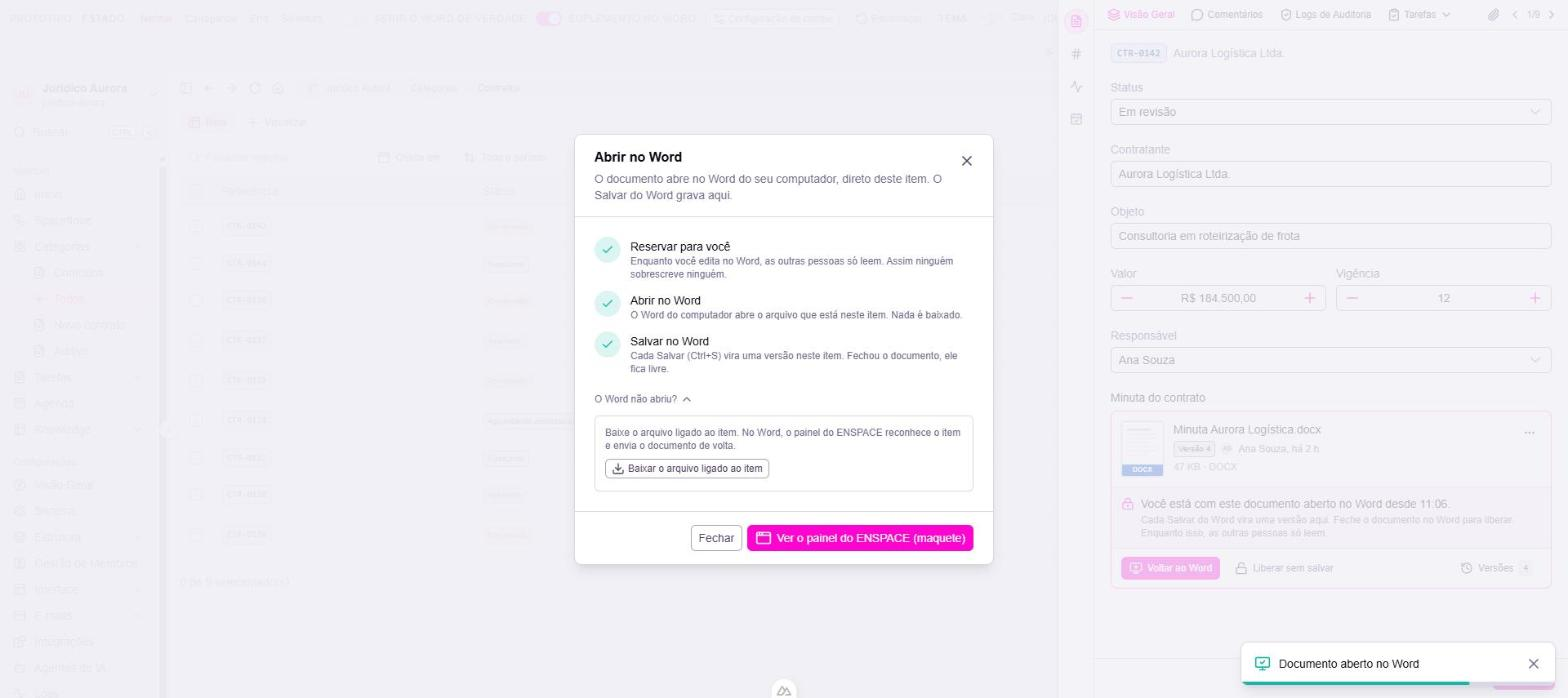
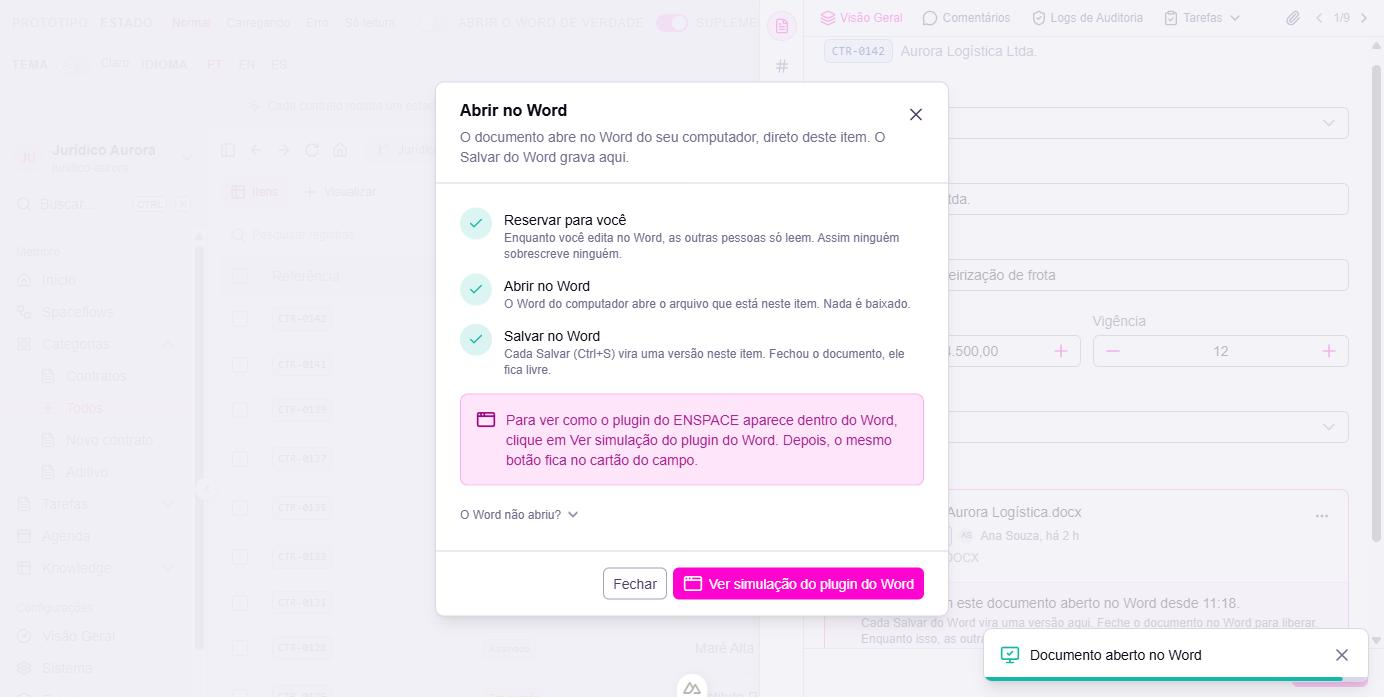
[PROTO] editor-de-documentos — rodada 2 — "simulação do plugin do Word" no lugar de "maquete", com explicação no fluxo

diff --git a/app/pages/editor-de-documentos/textos.ts b/app/pages/editor-de-documentos/textos.ts
@@ -114,6 +114,7 @@ export interface Textos {
     renomear: string
     remover: string
     pdfSoLeitura: string
+    simulacaoBaixar: string
 
     abertoPorVoceNoWord: (desde: string) => string
     abertoPorVoceNoWordDetalhe: string
@@ -203,6 +204,9 @@ export interface Textos {
     abrindo: string
     abertoToast: string
     abrirJanela: string
+    abrirJanelaCurto: string
+    explicaSimulacao: string
+    simulacaoInstalar: string
     fechar: string
     naoAbriu: string
     naoAbriuDetalhe: string
@@ -441,6 +445,7 @@ const pt: Textos = {
     renomear: 'Renomear',
     remover: 'Remover documento',
     pdfSoLeitura: 'PDF não se edita. Para mudar, substitua o arquivo.',
+    simulacaoBaixar: 'Simulação: nada é baixado.',
 
     abertoPorVoceNoWord: desde => `Você está com este documento aberto no Word desde ${desde}.`,
     abertoPorVoceNoWordDetalhe: 'Cada Salvar do Word vira uma versão aqui. Feche o documento no Word para liberar. Enquanto isso, as outras pessoas só leem.',
@@ -504,7 +509,7 @@ const pt: Textos = {
     concluir: 'Concluir',
     concluindo: 'Salvando',
     versaoSalva: n => `Versão ${n} salva`,
-    areaDoOnlyoffice: 'Área do ONLYOFFICE (maquete): clique no texto e digite para ver o salvamento.',
+    areaDoOnlyoffice: 'Simulação do ONLYOFFICE: clique no texto e digite para ver o salvamento.',
     barra: ['Arquivo', 'Página Inicial', 'Inserir', 'Layout', 'Referências', 'Colaboração'],
     escHint: 'Esc fecha só o que está por cima. O editor fecha pelo Concluir.',
   },
@@ -557,7 +562,10 @@ const pt: Textos = {
     reservado: 'Reservado para você',
     abrindo: 'Abrindo no Word',
     abertoToast: 'Documento aberto no Word',
-    abrirJanela: 'Ver o painel do ENSPACE (maquete)',
+    abrirJanela: 'Ver simulação do plugin do Word',
+    abrirJanelaCurto: 'Simulação do plugin',
+    explicaSimulacao: 'Para ver como o plugin do ENSPACE aparece dentro do Word, clique em Ver simulação do plugin do Word. Depois, o mesmo botão fica no cartão do campo.',
+    simulacaoInstalar: 'Simulação: aqui abriria a página de instalação do plugin.',
     fechar: 'Fechar',
     naoAbriu: 'O Word não abriu?',
     naoAbriuDetalhe: 'Baixe o arquivo ligado ao item. No Word, o painel do ENSPACE reconhece o item e envia o documento de volta.',
@@ -573,7 +581,7 @@ const pt: Textos = {
   },
 
   janela: {
-    aviso: 'Maquete do Word com o painel do ENSPACE. A janela do Word não é proposta; o painel e o salvamento no item são.',
+    aviso: 'Simulação do plugin do Word: é assim que o painel do ENSPACE aparece dentro do Word. A janela cinza só representa o Word; o painel e o salvamento no item são a proposta.',
     tituloDoApp: 'Word',
     salvoNaBarra: hora => `Salvo no ENSPACE às ${hora}`,
     naoSalvoNaBarra: 'Mudanças não salvas',
@@ -649,7 +657,7 @@ const pt: Textos = {
     configuracao: 'Configuração do campo',
     wordDeVerdade: 'Abrir o Word de verdade',
     reiniciar: 'Recomeçar',
-    dica: 'Cada contrato da lista mostra um estado do campo.',
+    dica: 'Cada contrato mostra um estado do campo. Para ver o plugin do Word, abra um contrato no Word e clique em Ver simulação do plugin do Word.',
     oQueMuda: 'Mostrar o que muda',
   },
 
@@ -801,6 +809,7 @@ const en: Textos = {
     renomear: 'Rename',
     remover: 'Remove document',
     pdfSoLeitura: 'PDFs can\'t be edited. To change it, replace the file.',
+    simulacaoBaixar: 'Simulation: nothing is downloaded.',
 
     abertoPorVoceNoWord: desde => `You have this document open in Word since ${desde}.`,
     abertoPorVoceNoWordDetalhe: 'Every Save in Word becomes a version here. Close the document in Word to release it. Meanwhile, other people can only read.',
@@ -864,7 +873,7 @@ const en: Textos = {
     concluir: 'Done',
     concluindo: 'Saving',
     versaoSalva: n => `Version ${n} saved`,
-    areaDoOnlyoffice: 'ONLYOFFICE area (mockup): click the text and type to see saving.',
+    areaDoOnlyoffice: 'ONLYOFFICE simulation: click the text and type to see saving.',
     barra: ['File', 'Home', 'Insert', 'Layout', 'References', 'Collaboration'],
     escHint: 'Esc only closes what is on top. The editor closes with Done.',
   },
@@ -917,7 +926,10 @@ const en: Textos = {
     reservado: 'Reserved for you',
     abrindo: 'Opening in Word',
     abertoToast: 'Document opened in Word',
-    abrirJanela: 'See the ENSPACE pane (mockup)',
+    abrirJanela: 'See Word plugin simulation',
+    abrirJanelaCurto: 'Plugin simulation',
+    explicaSimulacao: 'To see how the ENSPACE plugin looks inside Word, click See Word plugin simulation. Afterwards, the same button stays on the field card.',
+    simulacaoInstalar: 'Simulation: this would open the plugin installation page.',
     fechar: 'Close',
     naoAbriu: 'Word didn\'t open?',
     naoAbriuDetalhe: 'Download the file linked to the item. In Word, the ENSPACE pane recognizes the item and sends the document back.',
@@ -933,7 +945,7 @@ const en: Textos = {
   },
 
   janela: {
-    aviso: 'Mockup of Word with the ENSPACE pane. The Word window is not the proposal; the pane and saving to the item are.',
+    aviso: 'Word plugin simulation: this is how the ENSPACE pane looks inside Word. The gray window only stands for Word; the pane and saving to the item are the proposal.',
     tituloDoApp: 'Word',
     salvoNaBarra: hora => `Saved to ENSPACE at ${hora}`,
     naoSalvoNaBarra: 'Unsaved changes',
@@ -1009,7 +1021,7 @@ const en: Textos = {
     configuracao: 'Field settings',
     wordDeVerdade: 'Open the real Word',
     reiniciar: 'Start over',
-    dica: 'Each contract in the list shows a field state.',
+    dica: 'Each contract shows a field state. To see the Word plugin, open a contract in Word and click See Word plugin simulation.',
     oQueMuda: 'Show what changes',
   },
 
@@ -1161,6 +1173,7 @@ const es: Textos = {
     renomear: 'Renombrar',
     remover: 'Quitar documento',
     pdfSoLeitura: 'Un PDF no se edita. Para cambiarlo, reemplaza el archivo.',
+    simulacaoBaixar: 'Simulación: no se descarga nada.',
 
     abertoPorVoceNoWord: desde => `Tienes este documento abierto en Word desde las ${desde}.`,
     abertoPorVoceNoWordDetalhe: 'Cada Guardar en Word se convierte en una versión aquí. Cierra el documento en Word para liberarlo. Mientras tanto, las demás personas solo leen.',
@@ -1224,7 +1237,7 @@ const es: Textos = {
     concluir: 'Listo',
     concluindo: 'Guardando',
     versaoSalva: n => `Versión ${n} guardada`,
-    areaDoOnlyoffice: 'Área de ONLYOFFICE (maqueta): haz clic en el texto y escribe para ver el guardado.',
+    areaDoOnlyoffice: 'Simulación de ONLYOFFICE: haz clic en el texto y escribe para ver el guardado.',
     barra: ['Archivo', 'Inicio', 'Insertar', 'Diseño', 'Referencias', 'Colaboración'],
     escHint: 'Esc cierra solo lo que está encima. El editor se cierra con Listo.',
   },
@@ -1277,7 +1290,10 @@ const es: Textos = {
     reservado: 'Reservado para ti',
     abrindo: 'Abriendo en Word',
     abertoToast: 'Documento abierto en Word',
-    abrirJanela: 'Ver el panel de ENSPACE (maqueta)',
+    abrirJanela: 'Ver simulación del plugin de Word',
+    abrirJanelaCurto: 'Simulación del plugin',
+    explicaSimulacao: 'Para ver cómo aparece el plugin de ENSPACE dentro de Word, haz clic en Ver simulación del plugin de Word. Después, el mismo botón queda en la tarjeta del campo.',
+    simulacaoInstalar: 'Simulación: aquí se abriría la página de instalación del plugin.',
     fechar: 'Cerrar',
     naoAbriu: '¿Word no se abrió?',
     naoAbriuDetalhe: 'Descarga el archivo vinculado al ítem. En Word, el panel de ENSPACE reconoce el ítem y envía el documento de vuelta.',
@@ -1293,7 +1309,7 @@ const es: Textos = {
   },
 
   janela: {
-    aviso: 'Maqueta de Word con el panel de ENSPACE. La ventana de Word no es propuesta; el panel y el guardado en el ítem sí.',
+    aviso: 'Simulación del plugin de Word: así aparece el panel de ENSPACE dentro de Word. La ventana gris solo representa Word; el panel y el guardado en el ítem son la propuesta.',
     tituloDoApp: 'Word',
     salvoNaBarra: hora => `Guardado en ENSPACE a las ${hora}`,
     naoSalvoNaBarra: 'Cambios sin guardar',
@@ -1369,7 +1385,7 @@ const es: Textos = {
     configuracao: 'Configuración del campo',
     wordDeVerdade: 'Abrir el Word de verdad',
     reiniciar: 'Empezar de nuevo',
-    dica: 'Cada contrato de la lista muestra un estado del campo.',
+    dica: 'Cada contrato muestra un estado del campo. Para ver el plugin de Word, abre un contrato en Word y haz clic en Ver simulación del plugin de Word.',
     oQueMuda: 'Mostrar lo que cambia',
   },
 

diff --git a/app/pages/editor-de-documentos/_CampoDocumento.vue b/app/pages/editor-de-documentos/_CampoDocumento.vue
@@ -43,6 +43,7 @@ const emit = defineEmits<{
   ler: []
   versoes: []
   voltarAoWord: []
+  simulacao: []
 }>()
 
 const toast = useToast()
@@ -217,7 +218,7 @@ const menuMais = computed<DropdownMenuItem[][]>(() => [
 function baixar(ext: string) {
   const a = arquivoDoItem(props.item)
   if (a && ext === '.docx') return baixarArquivo(a)
-  toast.add({ title: `${doc.value?.name.replace(/\.(docx|pdf)$/i, '')}${ext}`, description: 'Maquete: nada é baixado.', icon: 'i-lucide-download', color: 'neutral' })
+  toast.add({ title: `${doc.value?.name.replace(/\.(docx|pdf)$/i, '')}${ext}`, description: props.t.campo.simulacaoBaixar, icon: 'i-lucide-download', color: 'neutral' })
 }
 
 const substituir = ref<HTMLInputElement | null>(null)
@@ -522,6 +523,7 @@ async function tentarDeNovo() {
           <!-- minha sessão no Word -->
           <template v-if="minhaNoWord">
             <UButton icon="i-lucide-monitor-up" :label="t.campo.voltarAoWord" size="sm" :disabled="preview" @click="emit('voltarAoWord')" />
+            <UButton icon="i-lucide-app-window" :label="t.word.abrirJanelaCurto" color="primary" variant="soft" size="sm" :disabled="preview" @click="emit('simulacao')" />
             <UButton icon="i-lucide-lock-open" :label="t.campo.liberar" color="neutral" variant="ghost" size="sm" :disabled="preview" @click="liberar" />
           </template>
 

diff --git a/app/pages/editor-de-documentos/_AbrirNoWord.vue b/app/pages/editor-de-documentos/_AbrirNoWord.vue
@@ -143,8 +143,22 @@ const real = computed(() => wordDeVerdade.value && props.editor === 'word-deskto
           variant="subtle"
           icon="i-lucide-puzzle"
           :description="t.word.dicaSuplemento"
-          :actions="[{ label: t.word.instalarSuplemento, color: 'neutral', variant: 'link', size: 'xs', trailingIcon: 'i-lucide-arrow-up-right', onClick: () => toast.add({ title: t.word.instalarSuplemento, description: 'Maquete: abre a página de instalação do suplemento.', color: 'neutral' }) }]"
+          :actions="[{ label: t.word.instalarSuplemento, color: 'neutral', variant: 'link', size: 'xs', trailingIcon: 'i-lucide-arrow-up-right', onClick: () => toast.add({ title: t.word.instalarSuplemento, description: t.word.simulacaoInstalar, color: 'neutral' }) }]"
         />
+
+        <Transition
+          enter-active-class="transition duration-300 ease-out"
+          enter-from-class="opacity-0 translate-y-1"
+        >
+          <UAlert
+            v-if="passo >= 4"
+            class="mt-4"
+            color="primary"
+            variant="subtle"
+            icon="i-lucide-app-window"
+            :description="t.word.explicaSimulacao"
+          />
+        </Transition>
 
         <UCollapsible v-if="editor === 'word-desktop'" v-model:open="ajudaAberta" class="mt-4">
           <UButton

diff --git a/app/pages/editor-de-documentos/index.vue b/app/pages/editor-de-documentos/index.vue
@@ -175,8 +175,13 @@ function verJanela(copia: boolean) {
 }
 
 function voltarAoWord(itemId: number) {
-  copiaBaixada.value = false
   lancarWord(itemId, 'word-desktop')
+  // Sem o Word real ligado, voltar ao Word é voltar à simulação.
+  if (!wordDeVerdade.value) verSimulacao(itemId)
+}
+
+function verSimulacao(itemId: number) {
+  copiaBaixada.value = false
   janelaDoWord.value = itemId
 }
 
@@ -217,7 +222,7 @@ const itemDasVersoes = computed(() => (versoesAbertas.value !== null ? itemPorId
       <ControlesDePrototipo />
 
       <span class="ml-auto flex items-center gap-2">
-        <span class="hidden items-center gap-1.5 text-xs text-muted 2xl:flex">
+        <span class="flex items-center gap-1.5 text-xs text-muted">
           <UIcon name="i-lucide-mouse-pointer-click" class="size-3.5" />
           {{ t.andaime.dica }}
         </span>
@@ -310,6 +315,7 @@ const itemDasVersoes = computed(() => (versoesAbertas.value !== null ? itemPorId
       @ler="(id: number) => ler(id)"
       @versoes="(id: number) => (versoesAbertas = id)"
       @voltar-ao-word="voltarAoWord"
+      @simulacao="verSimulacao"
     />
 
     <EscolhaDeEditor v-model:open="escolhaAberta" :t="t" @escolher="aoEscolher" />

diff --git a/app/pages/editor-de-documentos/_EditorNoEnspace.vue b/app/pages/editor-de-documentos/_EditorNoEnspace.vue
@@ -135,7 +135,7 @@ const menuBaixar = computed<DropdownMenuItem[]>(() => [
 ])
 
 function baixar(ext: string) {
-  toast.add({ title: `${doc.value?.name.replace(/\.(docx|pdf)$/i, '')}${ext}`, description: 'Maquete: nada é baixado.', icon: 'i-lucide-download', color: 'neutral' })
+  toast.add({ title: `${doc.value?.name.replace(/\.(docx|pdf)$/i, '')}${ext}`, description: props.t.campo.simulacaoBaixar, icon: 'i-lucide-download', color: 'neutral' })
 }
 
 /* ícones decorativos da barra do ONLYOFFICE (maquete) */

diff --git a/app/pages/editor-de-documentos/_VisaoRapida.vue b/app/pages/editor-de-documentos/_VisaoRapida.vue
@@ -27,6 +27,7 @@ const emit = defineEmits<{
   ler: [itemId: number]
   versoes: [itemId: number]
   voltarAoWord: [itemId: number]
+  simulacao: [itemId: number]
 }>()
 
 const toast = useToast()
@@ -160,6 +161,7 @@ const trilho = [
               @ler="emit('ler', itemAberto!.id)"
               @versoes="emit('versoes', itemAberto!.id)"
               @voltar-ao-word="emit('voltarAoWord', itemAberto!.id)"
+              @simulacao="emit('simulacao', itemAberto!.id)"
             />
           </div>
 

diff --git a/app/pages/editor-de-documentos/_PainelDeVersoes.vue b/app/pages/editor-de-documentos/_PainelDeVersoes.vue
@@ -74,7 +74,7 @@ function restaurar() {
 }
 
 function baixar(n: number) {
-  toast.add({ title: `${props.t.campo.versaoN(n)} · ${doc.value?.name}`, description: 'Maquete: nada é baixado.', icon: 'i-lucide-download', color: 'neutral' })
+  toast.add({ title: `${props.t.campo.versaoN(n)} · ${doc.value?.name}`, description: props.t.campo.simulacaoBaixar, icon: 'i-lucide-download', color: 'neutral' })
 }
 </script>
 

diff --git a/app/pages/editor-de-documentos/DECISOES.md b/app/pages/editor-de-documentos/DECISOES.md
@@ -50,7 +50,7 @@ flowchart LR
 - **Não deu:** abrir no Word um arquivo enviado pela pessoa no protótipo. Por quê: ele vive como `blob:` no navegador, que o Word não alcança; o protótipo baixa o arquivo (a saída de emergência).
 - **Não deu:** prints das referências. Por quê: a pesquisa foi por leitura de documentação; as URLs estão no `PESQUISA.md`.
 - **Não deu:** conferir na tela da Mikaela que o Word abriu. Por quê: o acesso à tela foi recusado; conferi que o arquivo responde no endereço e que o link `ms-word:` é montado com ele.
-- **Maquete:** a área do ONLYOFFICE (barra e página desenhadas; dá para digitar e ver o salvamento); a janela do Word (cinza, sem identidade da Microsoft; o painel e o salvamento no item são proposta); a geração por modelo, o envio e o salvamento (simulados em memória); a miniatura (linhas, no lugar da imagem da 1ª página); Baixar como PDF; "Como instalar" o suplemento. Nada usa localStorage; recarregar zera tudo.
+- **Simulação:** a área do ONLYOFFICE (barra e página desenhadas; dá para digitar e ver o salvamento); a janela do Word, chamada na tela de "simulação do plugin do Word" (cinza, sem identidade da Microsoft; o painel e o salvamento no item são proposta); a geração por modelo, o envio e o salvamento (simulados em memória); a miniatura (linhas, no lugar da imagem da 1ª página); Baixar como PDF; "Como instalar" o suplemento. Nada usa localStorage; recarregar zera tudo.
 - **Crítica e acessibilidade:** passada de crítica feita com a skill `design:design-critique`; a de acessibilidade foi feita junto, no mesmo roteiro (contraste, foco, rótulos), sem rodar a skill `design:accessibility-review` à parte.
   - Corrigido: o texto "formatos aceitos" usava `text-dimmed`, baixo contraste; passou a `text-muted`.
   - Corrigido: documento criado em branco mostrava o texto do contrato.
@@ -61,6 +61,16 @@ flowchart LR
   - Ficou: o andaime quebra em 2 linhas em telas de até 1.600 px; é andaime.
   - A conferir à mão: na automação, o 1º clique logo depois de fechar o editor ou um modal foi ignorado algumas vezes. A janela do Chrome estava em segundo plano em parte dos testes, o que também descarta clique; não deu para separar as 2 causas.
 - **Ver:** `http://localhost:3000/editor-de-documentos` · `evidencias/proto-*.jpg`
+
+## Rodada 2 · 2026-10-08
+- **Pedido (literal):** "voce tem que deixar explicado no prototipo que o user tem que clicar em \"maquete\" pra ver como seria a aprencia do plugin. nao é maquete, bote \"simulaçao plugin word\" ou algo assim."
+- **Mudou:** o botão do modal Abrir no Word passou de "Ver o painel do ENSPACE (maquete)" para "Ver simulação do plugin do Word".
+- **Mudou:** o modal explica, depois que o Word abre, que esse botão mostra como o plugin aparece dentro do Word.
+- **Mudou:** o cartão do campo reservado ganhou o botão "Simulação do plugin"; "Voltar ao Word" só chama o Word do computador.
+- **Mudou:** a dica do andaime diz o caminho até a simulação e aparece em qualquer largura de tela.
+- **Mudou:** "maquete" saiu de todo texto de tela (aviso da janela, área do ONLYOFFICE, toasts), nos 3 idiomas; os toasts que estavam fixos em português passaram para o `textos.ts`.
+- **Fronteira:** muda só o texto e o acesso à simulação; não muda o fluxo nem a proposta.
+- **Ver:** `http://localhost:3000/editor-de-documentos` · `evidencias/proto-03-abrir-no-word.jpg`, `proto-04-painel-do-enspace-no-word.jpg`, `proto-08-cartao-com-simulacao-do-plugin.jpg`
 
 ## Achados do develop que não são desta demanda
 - Abrir a configuração do campo deu "Ocorreu um erro ao carregar os campos aninhados" até clicar em Recarregar.
